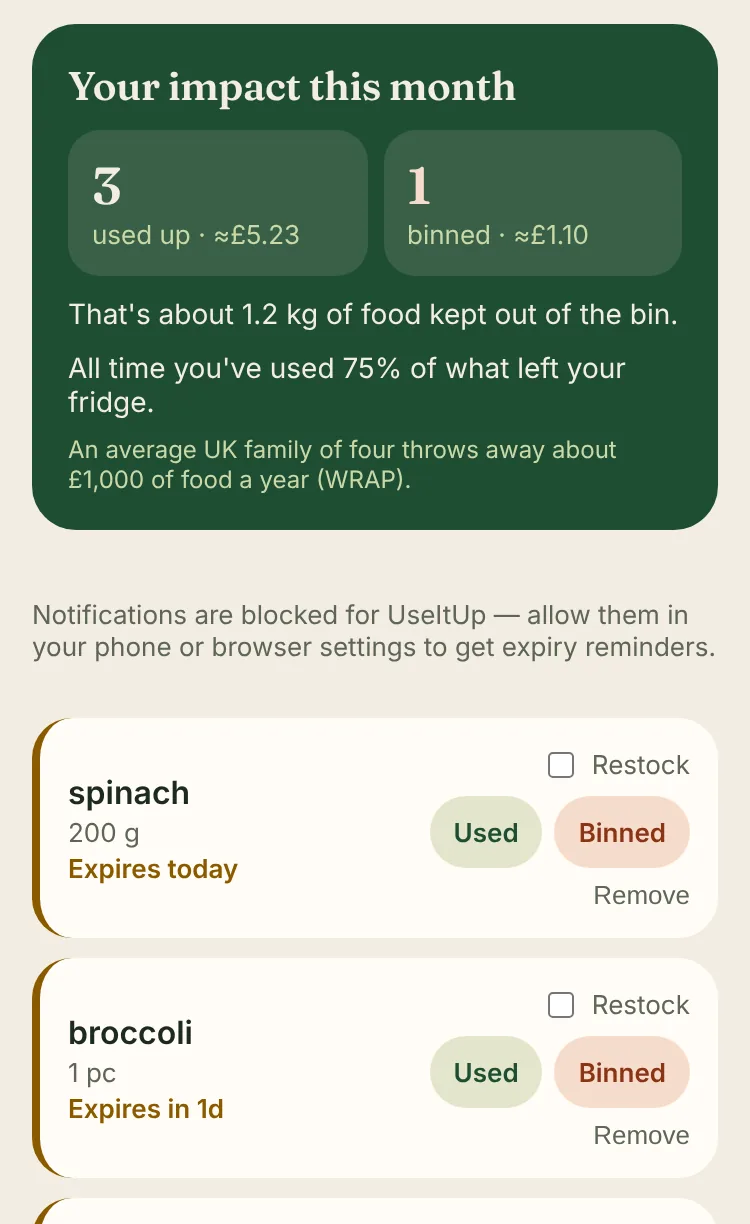
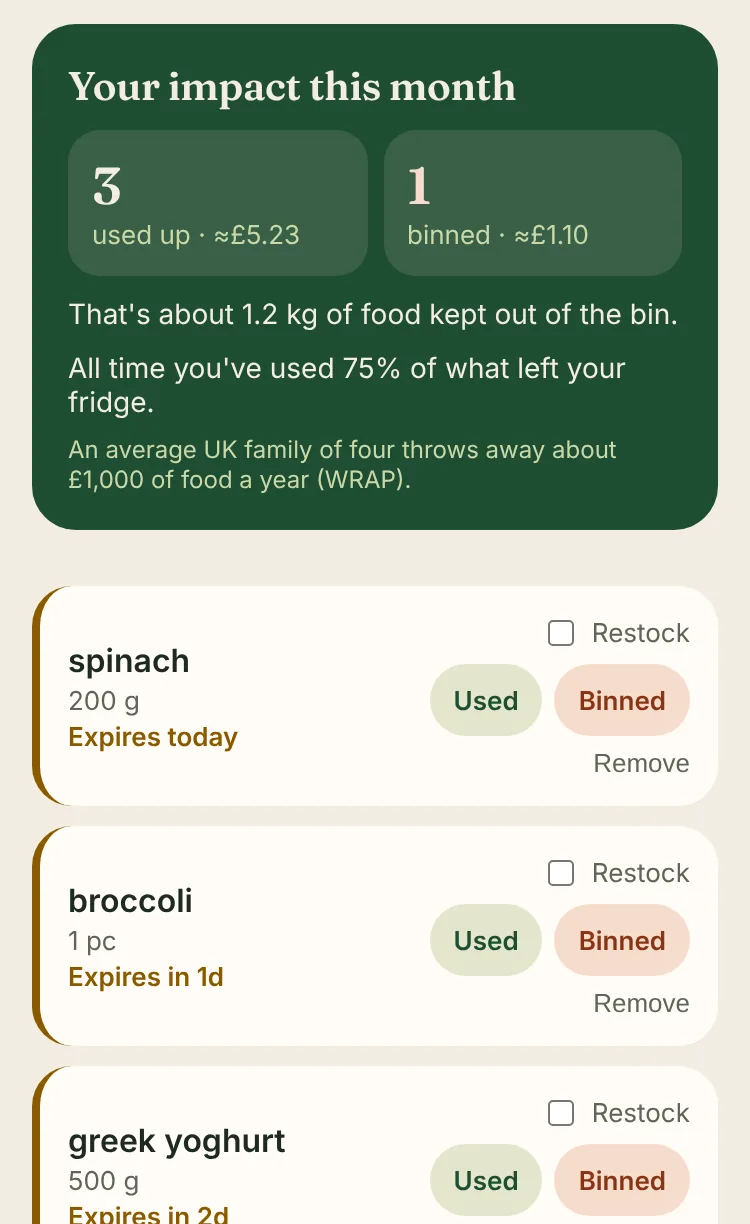
web: welcome fridge screenshot without the notification note
Claude-Session: https://claude.ai/code/session_01DDyiD8vVcgGCHvYeoP6GTf

Changed region(s): [[0.0307, 0.4657, 0.9507, 1.0]]

diff --git a/apps/web/app/how-it-works/page.tsx b/apps/web/app/how-it-works/page.tsx
@@ -28,7 +28,7 @@ const FEATURES = [
     key: "fridge",
     title: "Know what's in your fridge",
     subtitle: "Scan a receipt or snap your fridge",
-    image: { src: "/images/how-it-works/fridge.webp?v=2", width: 750, height: 1224 },
+    image: { src: "/images/how-it-works/fridge.webp?v=3", width: 750, height: 1224 },
     alt: "Fridge list of ingredients, each with a quantity and an expiry countdown",
   },
   {
